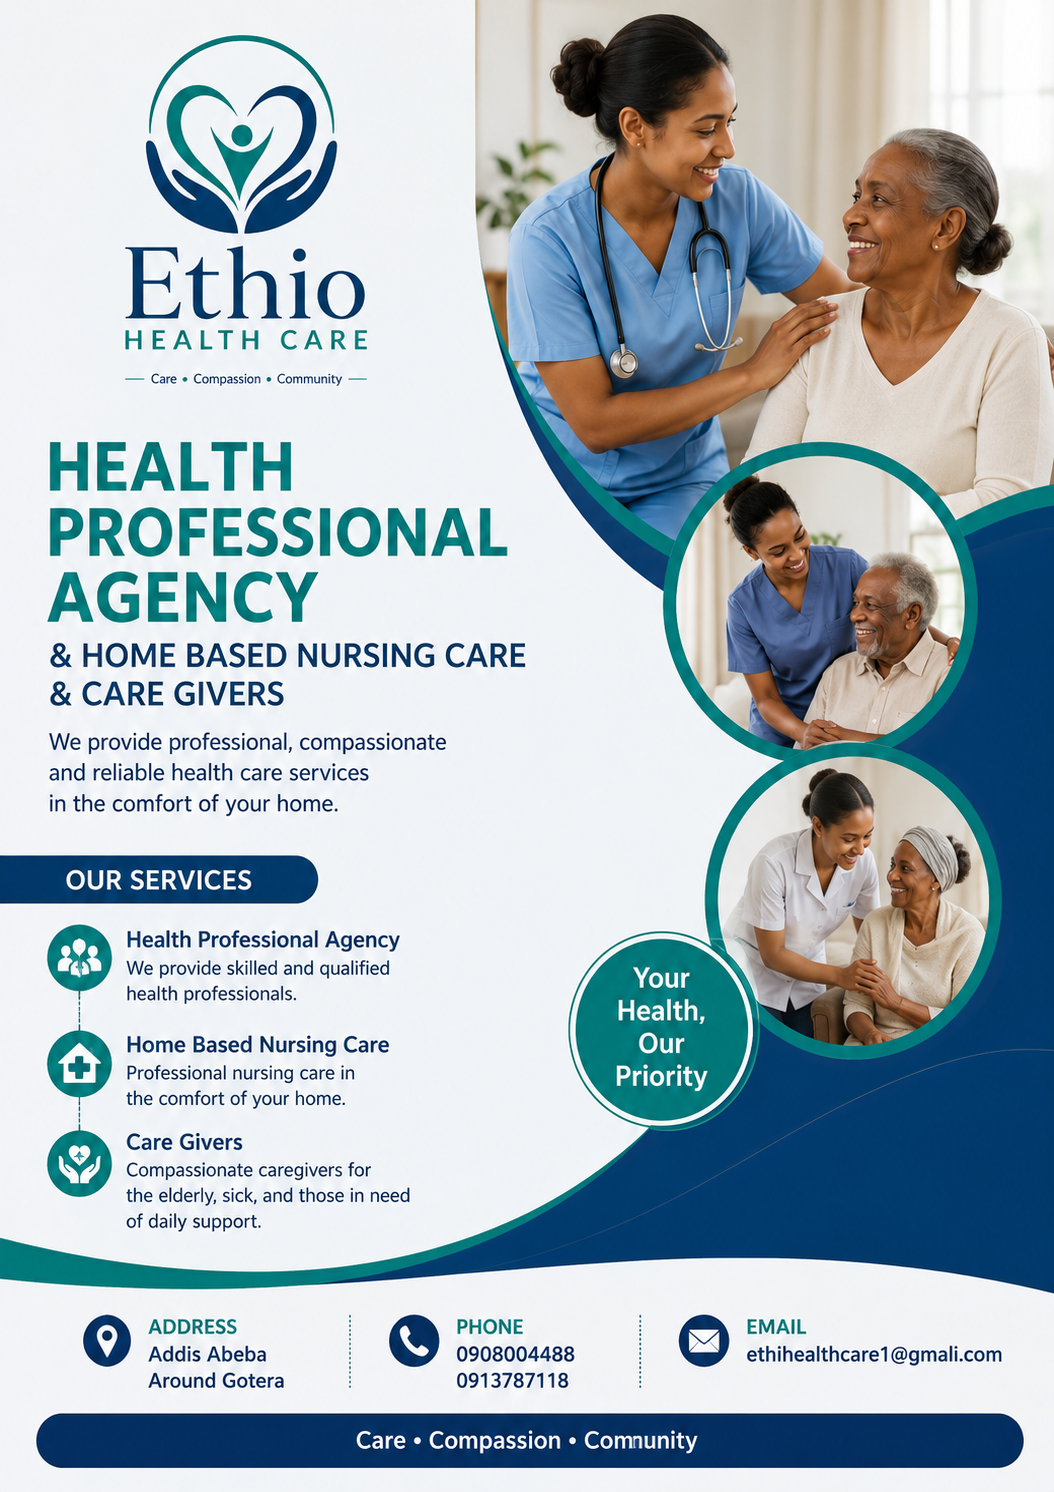
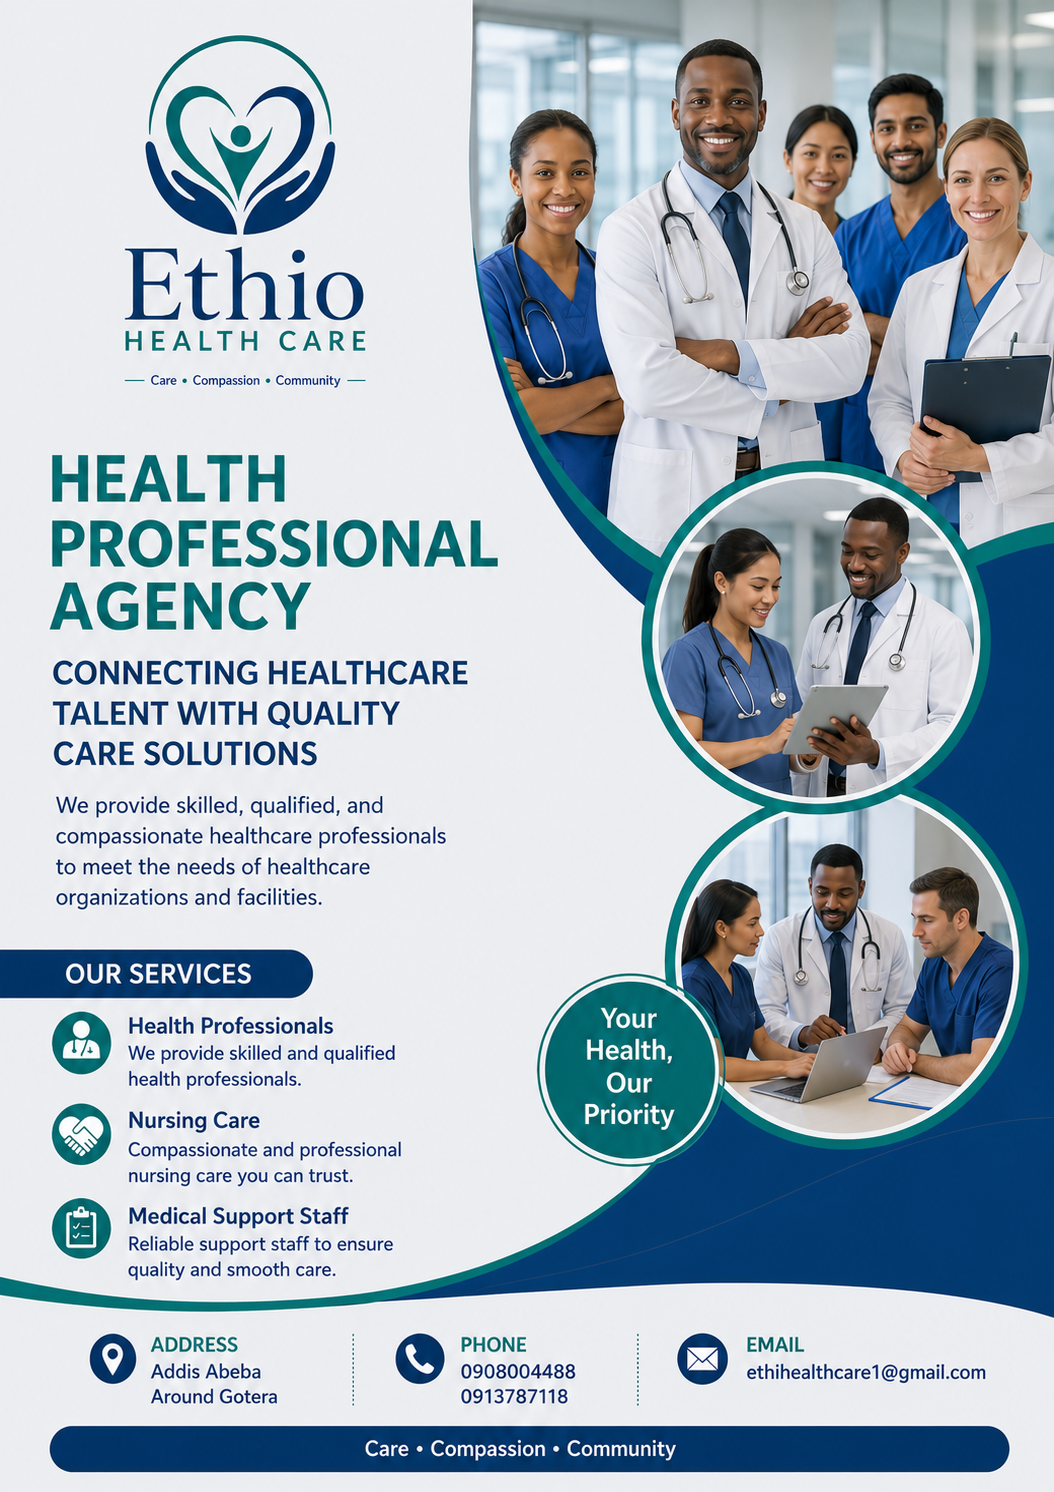
Make poster image bigger with better flow on hero section

diff --git a/templates/index-enhanced.html b/templates/index-enhanced.html
@@ -29,8 +29,8 @@
         .landing-hero {
             min-height: 100vh;
             display: grid;
-            grid-template-columns: 1.1fr 0.9fr;
-            gap: 3rem;
+            grid-template-columns: 1fr 1fr;
+            gap: 2rem;
             align-items: center;
             padding: 6rem 3rem;
             position: relative;
@@ -293,7 +293,7 @@
             background: rgba(255, 255, 255, 0.98);
             border: 2px solid rgba(16, 185, 129, 0.2);
             border-radius: 16px;
-            padding: 2rem;
+            padding: 1rem;
             box-shadow: var(--shadow-lg);
             position: relative;
             overflow: hidden;
@@ -320,9 +320,9 @@
 
         .poster-card img {
             width: 100%;
-            border-radius: 12px;
-            margin-bottom: 1rem;
-            box-shadow: 0 10px 30px rgba(0, 0, 0, 0.1);
+            border-radius: 10px;
+            margin-bottom: 0.75rem;
+            box-shadow: 0 14px 40px rgba(0, 0, 0, 0.13);
         }
 
         .poster-copy h3 {
